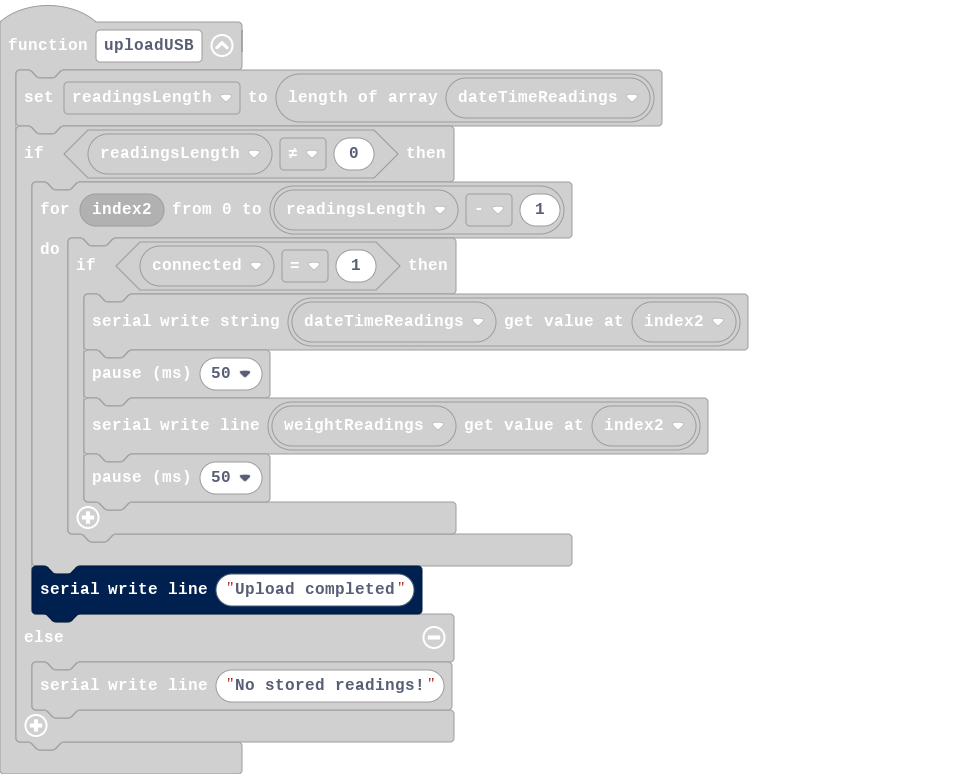
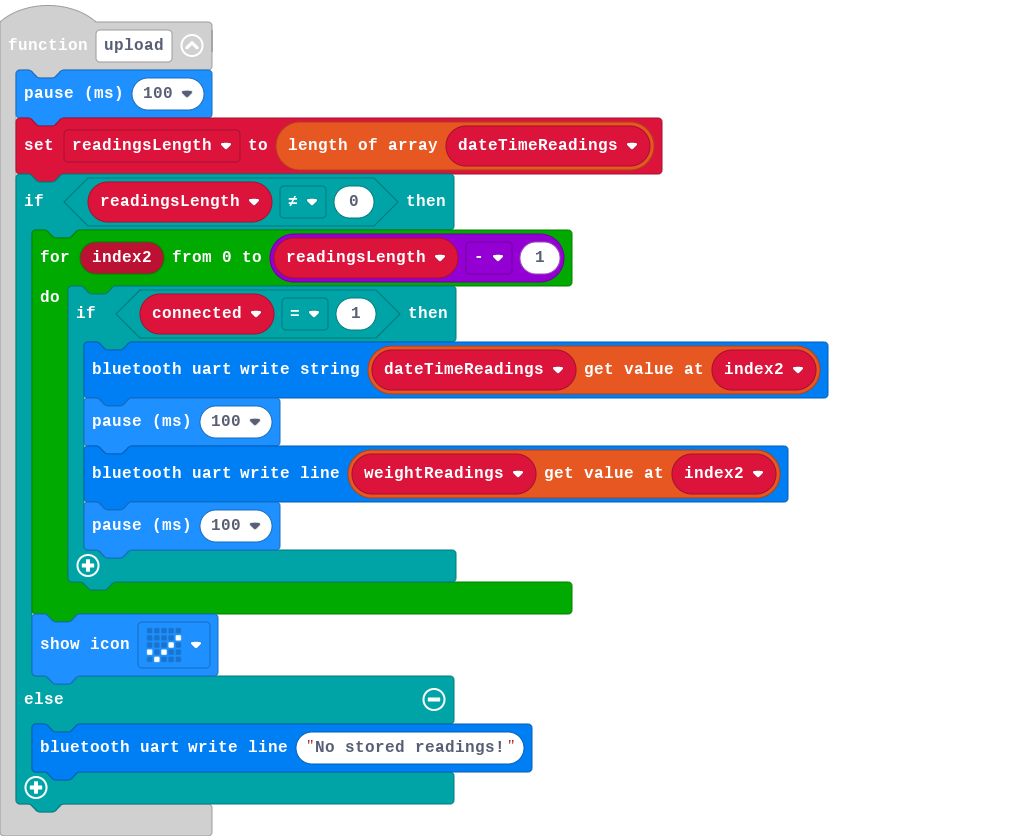
Update main.blocks, main.ts

diff --git a/main.ts b/main.ts
@@ -88,14 +88,15 @@ function dateTimeString () {
     return "" + leadingZero(DS3231.date()) + "/" + leadingZero(DS3231.month()) + "/" + DS3231.year() + " " + leadingZero(DS3231.hour()) + ":" + leadingZero(DS3231.minute()) + " "
 }
 function upload () {
+    basic.pause(100)
     readingsLength = dateTimeReadings.length
     if (readingsLength != 0) {
         for (let index2 = 0; index2 <= readingsLength - 1; index2++) {
             if (connected == 1) {
                 bluetooth.uartWriteString(dateTimeReadings[index2])
-                basic.pause(50)
+                basic.pause(100)
                 bluetooth.uartWriteLine(weightReadings[index2])
-                basic.pause(50)
+                basic.pause(100)
             }
         }
         basic.showIcon(IconNames.Yes)
